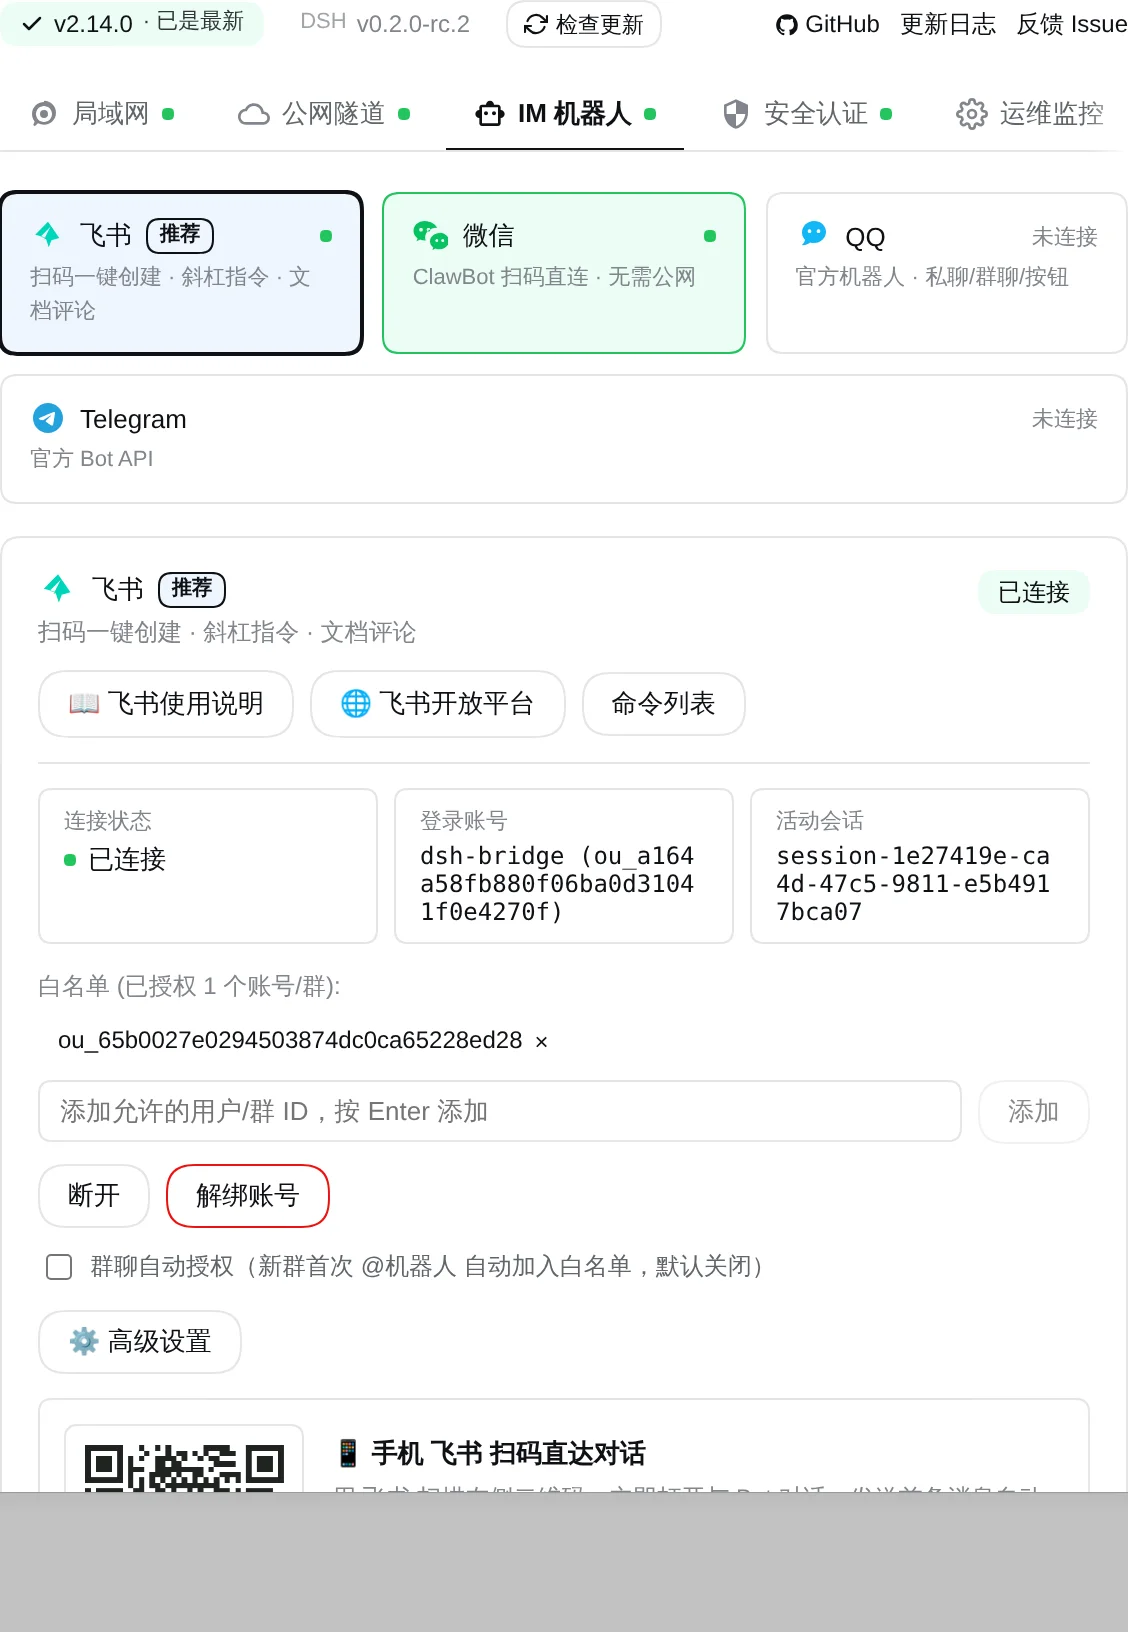
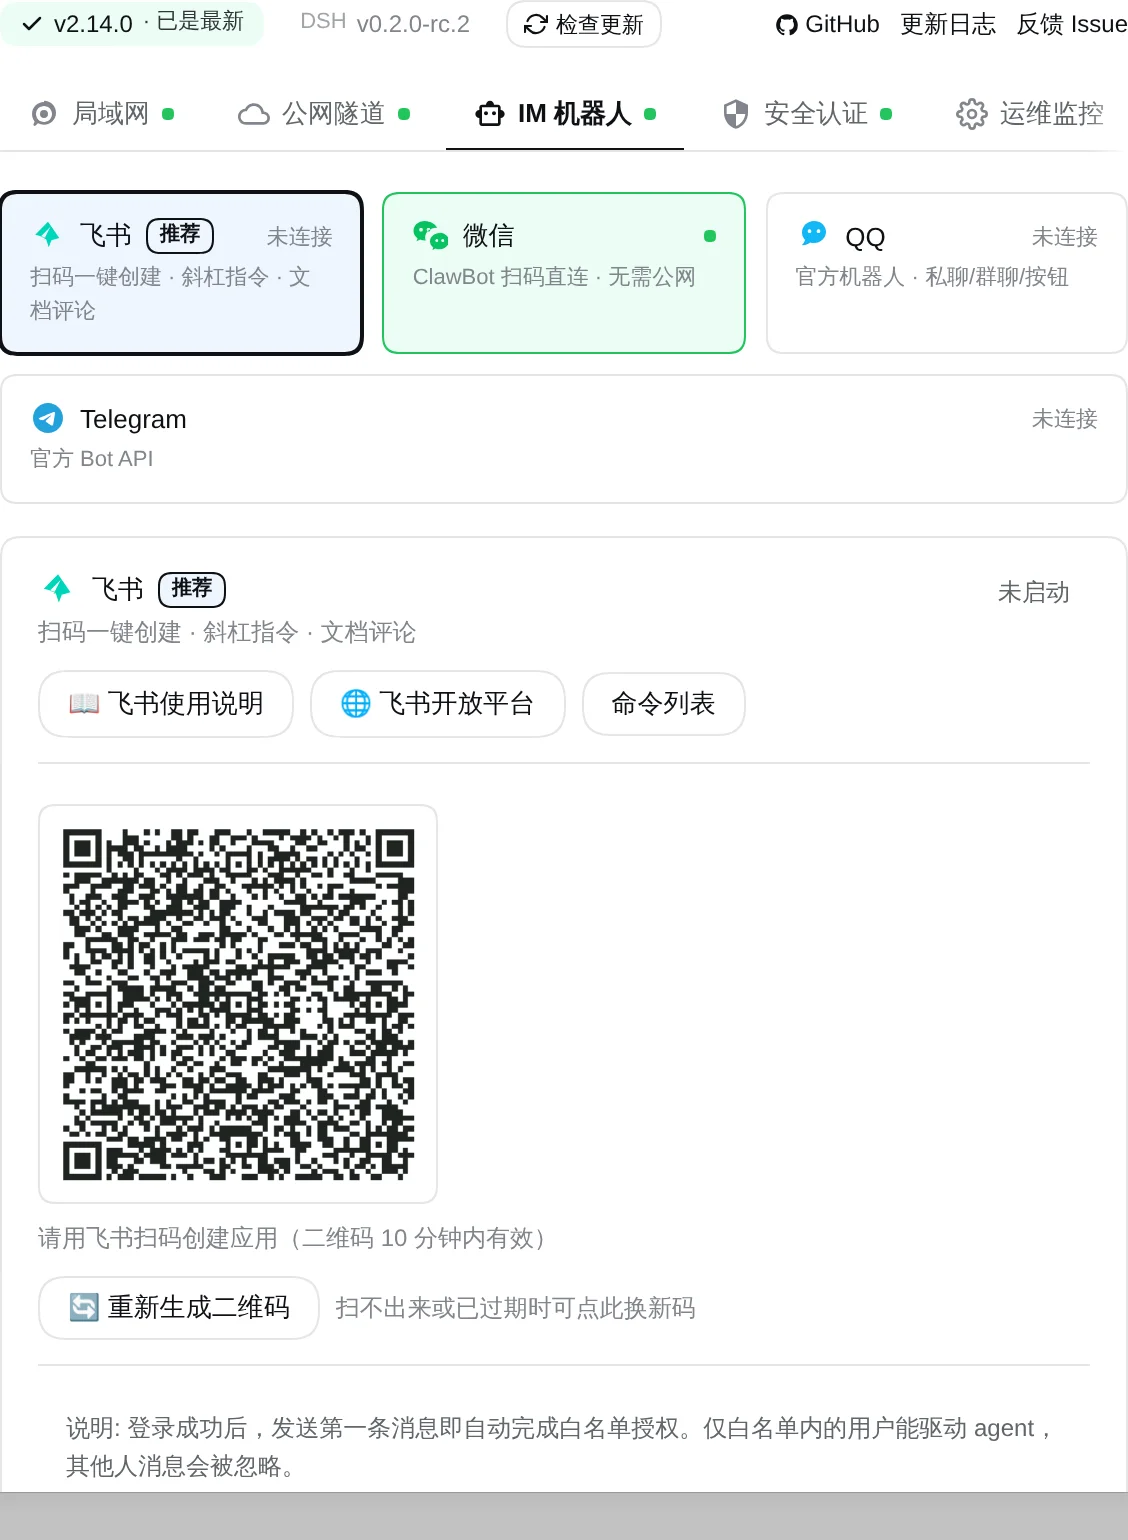
docs: 飞书设置截图改为「扫码一键创建」态；使用文档两处断图修复（jpg→webp）并把截图归位到方式一

diff --git a/docs/feishu-usage.md b/docs/feishu-usage.md
@@ -26,6 +26,8 @@
 3. 使用手机飞书扫码，在确认页确认创建（可修改应用名称/头像），确认后插件会**自动保存凭据并连接**；
 4. 状态显示为绿色 **「已连接」** 即表示长连接成功建立（如需给机器人发消息，可扫面板上的机器人二维码直达会话）。
 
+![飞书扫码一键创建应用](screenshots/feishu-bot-config.webp)
+
 > 二维码 10 分钟内有效且仅可使用一次。二维码在手机上看不清、或已过期时，点二维码下方的
 > **「🔄 重新生成二维码」** 立即换新码（旧码随之失效）；关掉设置窗口不会中断流程，重新打开会显示
 > 当前二维码，超过 10 分钟后自动提示过期、可重新生成。
@@ -109,8 +111,6 @@
 
 > 国际版 Lark 用户请把应用凭据填入后，将域名配置为 `lark`（一键创建流程会按扫码账号自动识别并写入）。
 
-![飞书机器人配置](screenshots/feishu-bot-config.jpg)
-
 ---
 
 ## 💬 常用操作与指令
@@ -177,7 +177,7 @@
 - 超时（默认 10 分钟）会自动拒绝并把卡片标成 **⏰ 已超时**；任务被中止则标成 **⚪ 已取消**；
 - 亦可直接回复文字 `/yes` (或 `1`) / `/no` (或 `2`)。
 
-![飞书对话与卡片审批](screenshots/feishu-chat.jpg)
+![飞书对话与卡片审批](screenshots/feishu-chat.webp)
 
 ---
 

diff --git a/README.en.md b/README.en.md
@@ -321,7 +321,7 @@ Official QQ Bot with direct/group @chat, Markdown rendering, interactive button 
 Built on the **official Feishu Channel SDK**: WebSocket transport with auto-reconnect, event verification/normalization, message rendering and chunking, streaming typewriter cards, and media upload/download are all handled by Feishu's own implementation (this plugin no longer maintains its own protocol stack). Onboarding is one scan away — click **"📱 Scan to create app"** in the settings panel and permissions, event subscriptions and card callbacks are provisioned automatically, no developer-console setup required (manual App ID / Secret entry is still supported). Long-connection mode needs **no public IP, no domain, no webhook**. See also: **cloud-doc comments**, the **native slash-command panel**, and approvals whose cards **update in place** after you decide.
 
 <p align="center">
-  <img src="https://raw.githubusercontent.com/wenbin-wb/dsh-bridge/main/docs/screenshots/feishu-bot-config.webp" width="600" alt="Feishu Bot Config" />
+  <img src="https://raw.githubusercontent.com/wenbin-wb/dsh-bridge/main/docs/screenshots/feishu-bot-config.webp" width="600" alt="Feishu: scan to create the app in one step" />
 </p>
 
 <details>

diff --git a/README.md b/README.md
@@ -344,7 +344,7 @@ dsh plugin --profile desktop add @wenbin_wb/dsh-bridge
 接入门槛也降下来了——**不用进开发者后台逐项配置**：设置面板里**手机扫码即可一键创建应用**，权限、事件订阅与卡片回调自动预置；仍保留手动填写已有应用凭证的方式。长连接模式 **100% 免公网 IP / 免域名 / 免配置 Webhook**。
 
 <p align="center">
-  <img src="https://raw.githubusercontent.com/wenbin-wb/dsh-bridge/main/docs/screenshots/feishu-bot-config.webp" width="600" alt="飞书 Bot 配置" />
+  <img src="https://raw.githubusercontent.com/wenbin-wb/dsh-bridge/main/docs/screenshots/feishu-bot-config.webp" width="600" alt="飞书扫码一键创建应用" />
 </p>
 
 <details>

diff --git a/docs/telegram-usage.md b/docs/telegram-usage.md
@@ -49,7 +49,7 @@
    - 亦可直接在系统环境变量中设置 `HTTPS_PROXY=http://127.0.0.1:7890`；
 5. 点击「**保存并连接**」。
 
-![Telegram Bot 配置](screenshots/telegram-bot-config.jpg)
+![Telegram Bot 配置](screenshots/telegram-bot-config.webp)
 
 ---
 
